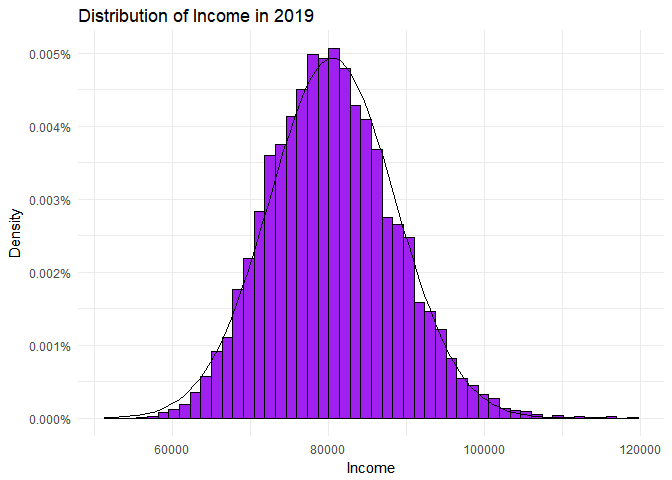
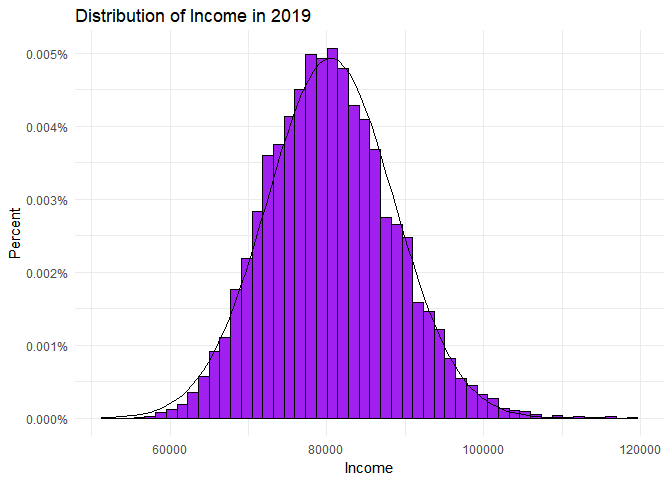
minor

diff --git a/students/gamarnik_dan/hw4 simulation/simulation.md b/students/gamarnik_dan/hw4 simulation/simulation.md
@@ -108,7 +108,7 @@ In 2019, the data has an almost perfect normal/bell curve distrobution.
       geom_histogram(aes(y = ..density..), bins = 50, 
                      fill = "purple", color = "black") +
       stat_function(fun = dnorm, args = list(mean = mean(inc2019$inc), sd = sd(inc2019$inc))) +
-      labs(title = "Distribution of Income in 2019", x = "Income", y = "Density") +
+      labs(title = "Distribution of Income in 2019", x = "Income", y = "Percent") +
       theme_minimal()
 
 ![](simulation_files/figure-markdown_strict/Q2,%20distrobution-1.png)
@@ -141,7 +141,7 @@ Approximately 18.00% of people could pay off their debts by 2028.
     ggplot(debt_95k, aes(year, ..density..)) +
     geom_histogram(bins = 3, fill = "green", color = "black") +
     scale_y_continuous(label = scales::percent) +
-    labs(title = "Distribution of When People Pay Their Loans", x = "Year", y = "Density") +
+    labs(title = "Distribution of When People Pay Their Loans", x = "Year", y = "Percent Paying Back") +
     theme_minimal()
 
 ![](simulation_files/figure-markdown_strict/Q3,%20debt-1.png)
@@ -179,7 +179,7 @@ Roughly 70.35% of the people were able to pay their debts back by 2028.
     ggplot(debt_95k_10, aes(year, ..density..)) +
     geom_histogram(bins = 5, fill = "red", color = "black") +
     scale_y_continuous(label = scales::percent) +
-    labs(title = "Distribution of When People Pay Their Loans", x = "Year", y = "Density") +
+    labs(title = "Distribution of When People Pay Their Loans", x = "Year", y = "Percent Paying Back") +
     theme_minimal()  
 
 ![](simulation_files/figure-markdown_strict/Q4,%20debt-1.png)
